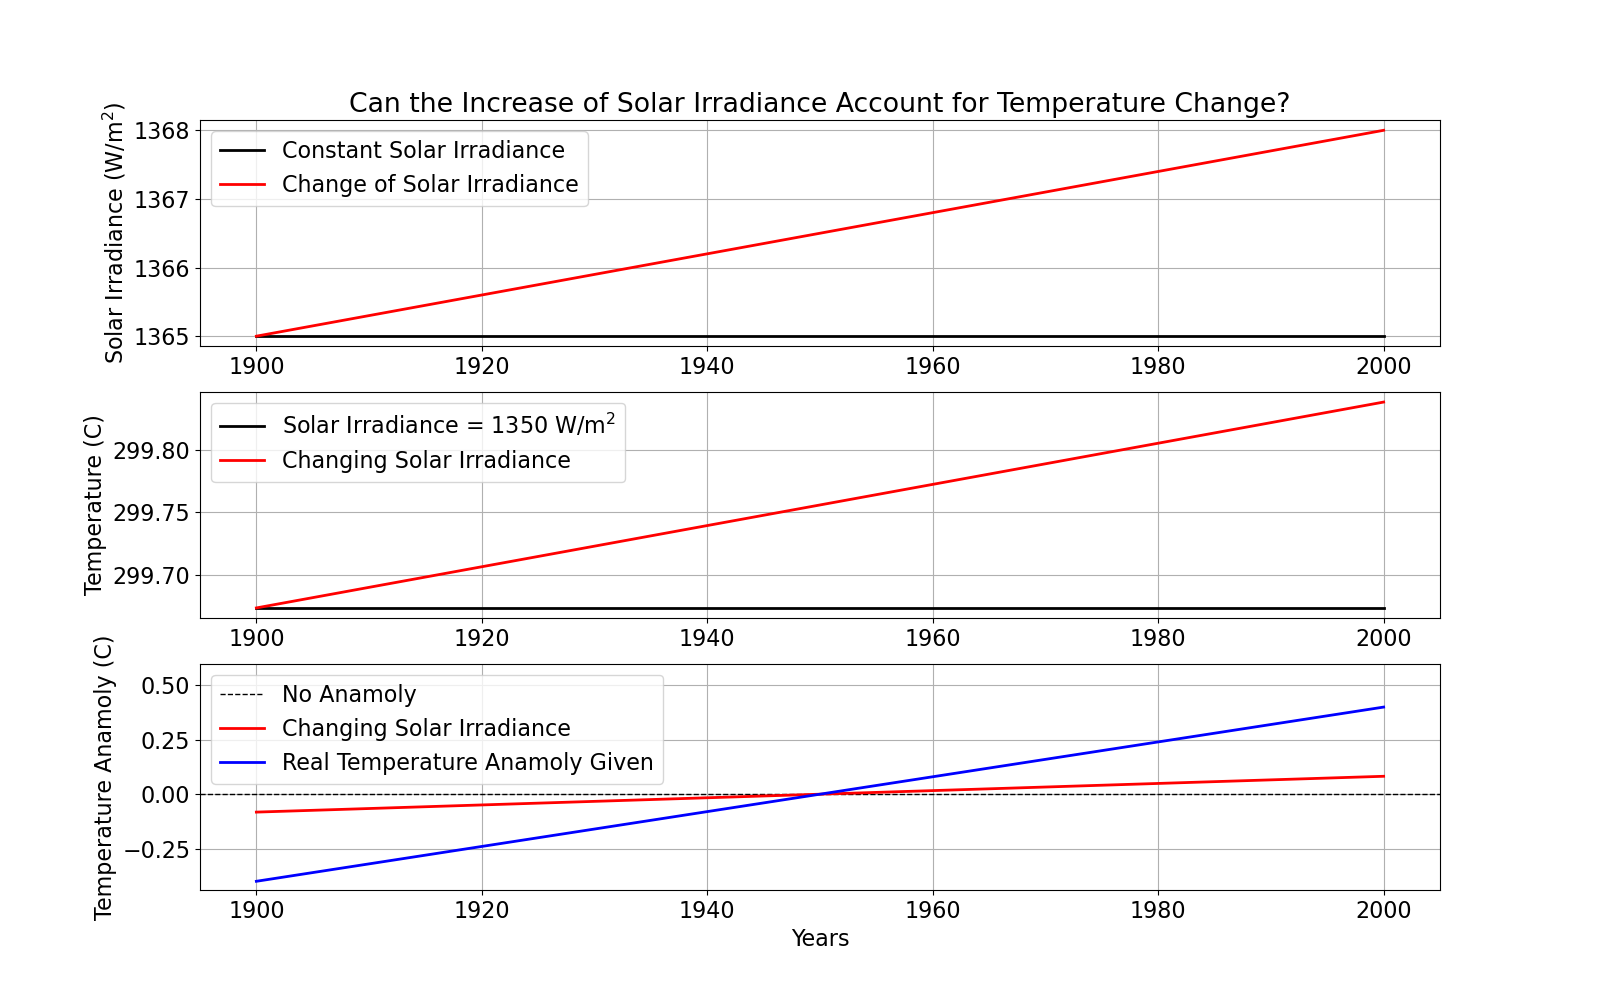
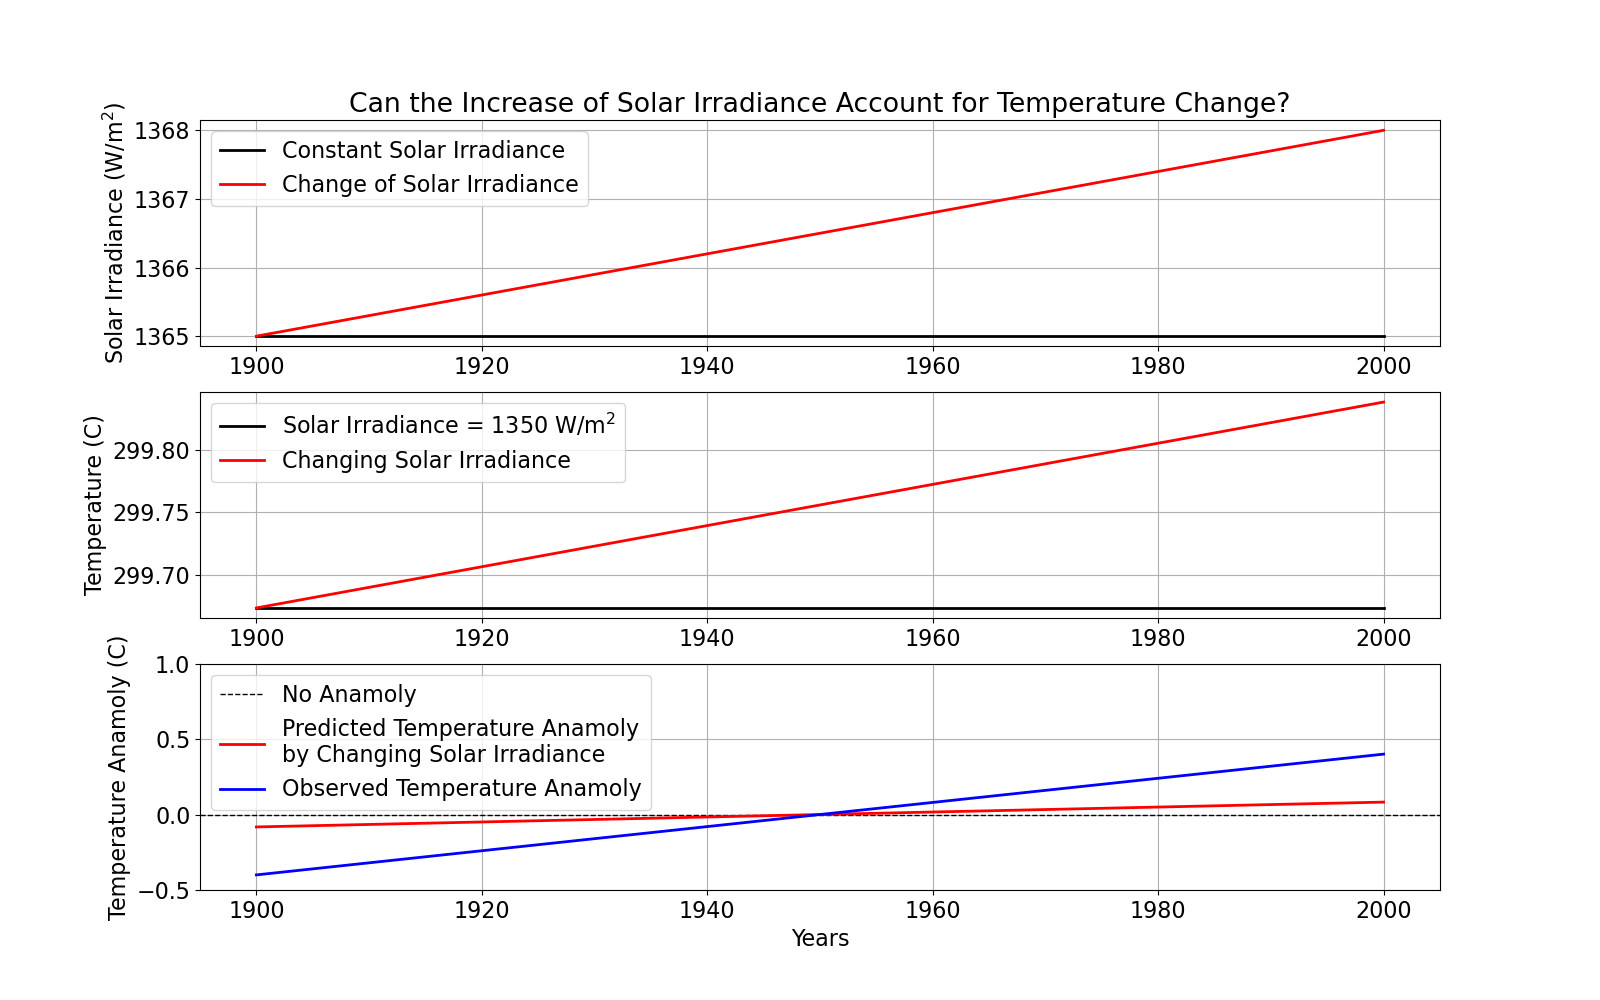
update

Changed region(s): [[0.0625, 0.651, 0.875, 0.93], [0.8438, 0.682, 0.875, 0.713]]

diff --git a/Homework/Lec2_Atmo_Layers/Lec2_One_Layer_Atmo.py b/Homework/Lec2_Atmo_Layers/Lec2_One_Layer_Atmo.py
@@ -70,12 +70,13 @@ ax2.grid(True)
 
 # Subplot #3 = year vs. temperature anamolies
 ax3.axhline(y=0, color="black",linestyle='--', linewidth=1, label='No Anamoly')
-ax3.plot(year,T_anamoly_So_change, color="red", linewidth=2, label='Changing Solar Irradiance')
-ax3.plot(year,t_anom, color="blue", linewidth=2, label='Real Temperature Anamoly Given')
+ax3.plot(year,T_anamoly_So_change, color="red", linewidth=2, label='Predicted Temperature Anamoly\nby Changing Solar Irradiance')
+ax3.plot(year,
+         t_anom, color="blue", linewidth=2, label='Observed Temperature Anamoly')
 ax3.legend()
 ax3.set_xlabel('Years')
 ax3.set_ylabel('Temperature Anamoly (C)')
-ax3.set_ylim(top=0.6)
+ax3.set_ylim(-0.5,1)
 ax3.grid(True)
 plt.rcParams.update({'font.size': 16})
 fig.show()
